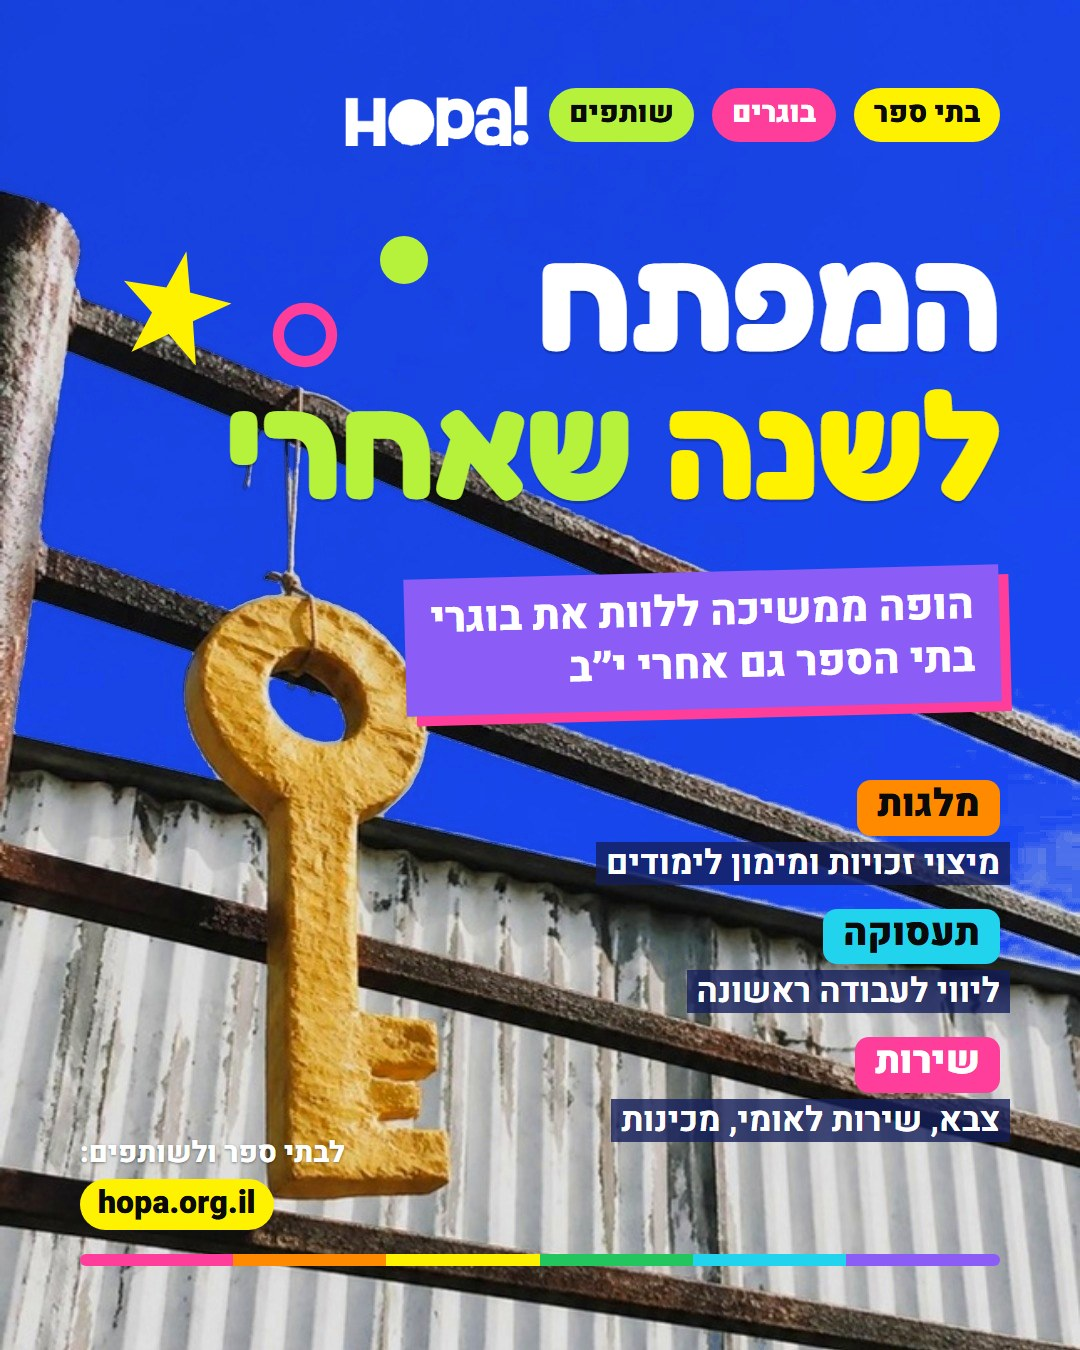
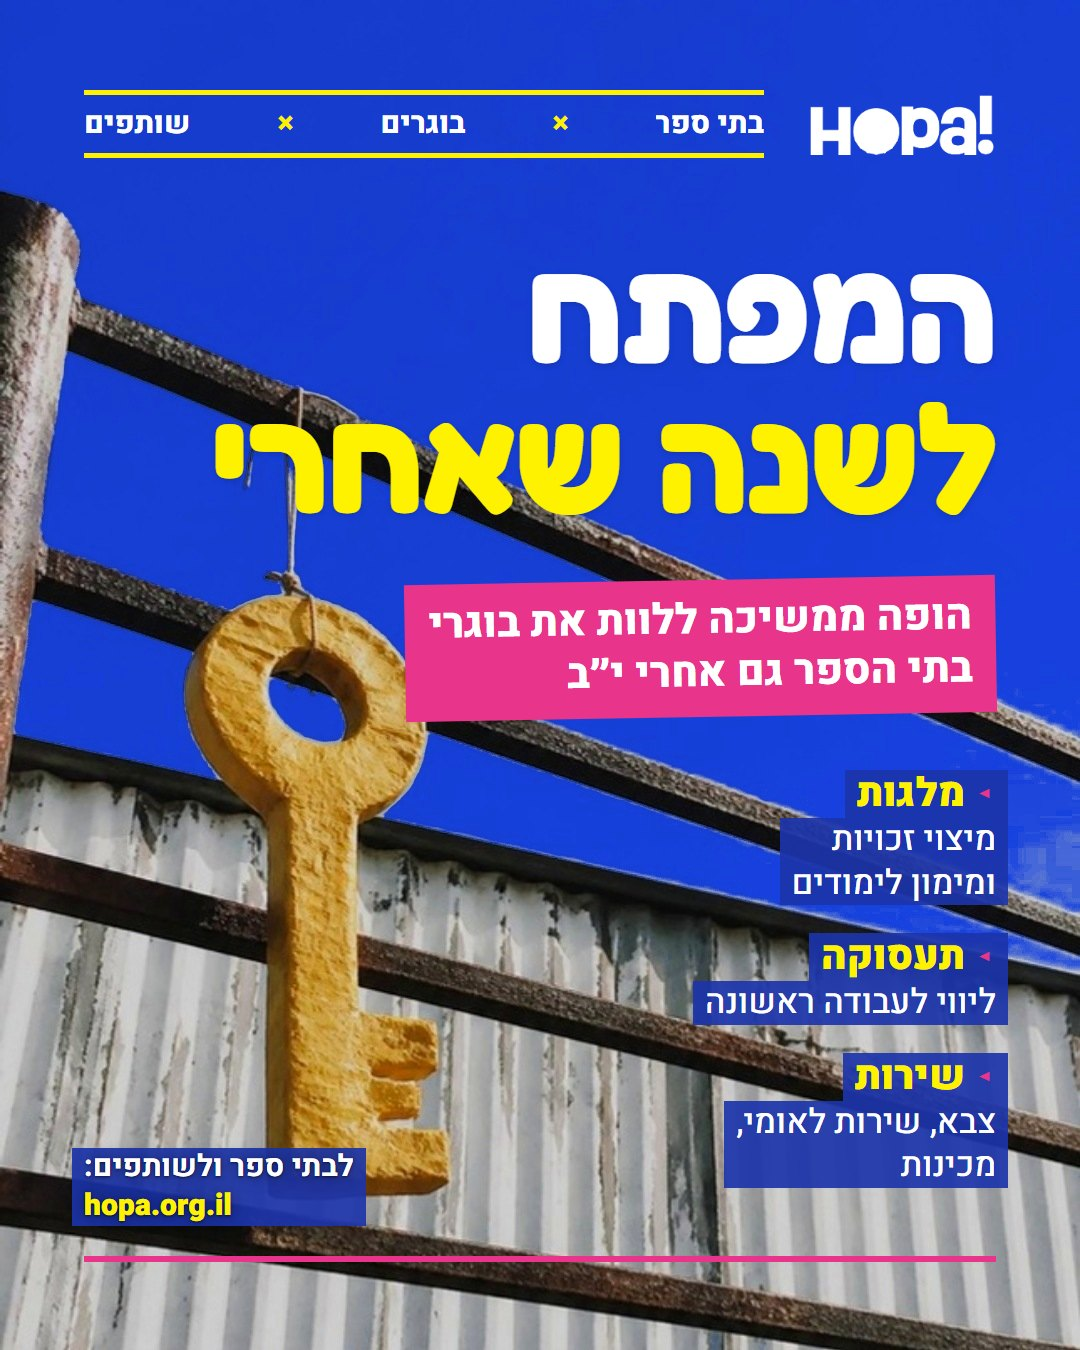
ishur-posts: חזרה לגרסת הפייסבוק הקודמת (הגרסה עם המדבקות נפסלה)

diff --git a/ishur-posts.html b/ishur-posts.html
@@ -118,7 +118,7 @@ var KEY='ishur-posts-';
 var ADMIN='hopa';
 
 var SECTIONS=[
-  {t:'סדרה א׳ · בהשראת גראז׳ — לפייסבוק',d:'פונה למנהלים, לבתי ספר ולשותפים. צבעוני במיוחד — סגול, ירוק, כתום, טורקיז, ורוד וצהוב בתוך כל פוסט. תמונה בודדת.',items:[
+  {t:'סדרה א׳ · בהשראת גראז׳ — לפייסבוק',d:'פונה למנהלים, לבתי ספר ולשותפים. לכל פוסט צבע רקע משלו, וצהוב וורוד בתוך הפוסט. תמונה בודדת.',items:[
     {id:'g1',t:'המפתח לשנה שאחרי',imgs:['fb-1-hamafteach']},
     {id:'g2',t:'מי מלווה את ההמראה?',imgs:['fb-2-hamraa']},
     {id:'g3',t:'יש להם כתובת',imgs:['fb-3-yesh-lahem-ktovet']},
@@ -196,7 +196,7 @@ function render(){
       var it=D.items[p.id]||{};
       html+='<div class="card'+(it.s?' st-'+it.s:'')+'" data-card="'+p.id+'">'+
         '<h3>'+esc(p.t)+(p.imgs.length>1?'<small>קרוסלה · '+p.imgs.length+' תמונות</small>':'')+'</h3>'+
-        '<div class="imgs'+(p.imgs.length>1?' multi':'')+'">'+p.imgs.map(function(n){return '<img loading="lazy" src="ishur/'+n+'.jpg?v=3" alt="">'}).join('')+'</div>'+
+        '<div class="imgs'+(p.imgs.length>1?' multi':'')+'">'+p.imgs.map(function(n){return '<img loading="lazy" src="ishur/'+n+'.jpg?v=4" alt="">'}).join('')+'</div>'+
         (p.imgs.length>1?'<div class="swipe">← החליקו לתמונות הבאות</div>':'')+
         (p.cap?'<details class="cap"><summary>📝 הטקסט לפוסט</summary><div>'+esc(p.cap)+'</div></details>':'')+
         '<div class="sts" data-id="'+p.id+'">'+
